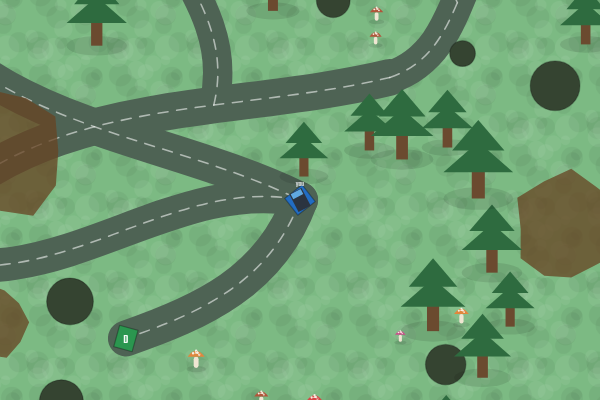
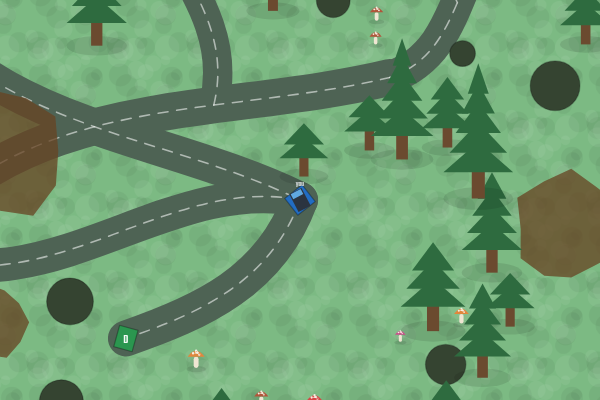
Give conifers 2-5 stacked tiers
The shared conifer (pine and snowpine) now draws a random 2-5 triangular tiers,
widest at the bottom tapering to the top, instead of a fixed two. Tiers rise
from a fixed trunk-connected base so taller trees grow upward. Snow caps are
drawn per tier so the snowy variant keeps a white peak on each layer. pine and
snowpine now receive the per-instance rng to pick their tier count.

diff --git a/src/game/props/shared.ts b/src/game/props/shared.ts
@@ -81,18 +81,31 @@ export function drawTreeBranch(
   }
 }
 
-/** Conifer body shared by the plain pine and the snow-dusted variant. */
-export function conifer(ctx: CanvasRenderingContext2D, snow: boolean): void {
+/** Conifer body shared by the plain pine and the snow-dusted variant: a stack
+ * of 2-5 triangular tiers, widest at the bottom and tapering to the top. When
+ * `snow` is set, each tier gets a small white cap at its peak. */
+export function conifer(ctx: CanvasRenderingContext2D, rng: Rng, snow: boolean): void {
   // Trunk starts above the foliage base (y = 3) so it connects, not floats.
   ctx.fillStyle = "#6b4a2f";
   ctx.fillRect(-1.5, 2, 3, 7);
+
+  const tiers = randInt(rng, 2, 5);
+  const maxHalf = 8; // bottom tier half-width
+  const widthStep = 1.4; // each tier up narrows by this much
+  const tierHeight = 7;
+  const apexSpacing = 4.5; // vertical rise between successive tier apexes
+  // The bottom tier's base sits at y = 3 (apex at 3 - tierHeight), so taller
+  // trees grow upward from a fixed, trunk-connected base.
+  const tierY = (i: number) => 3 - tierHeight - i * apexSpacing;
+  const tierHalf = (i: number) => maxHalf - i * widthStep;
+
+  // Green body first (largest tier at the bottom, up to the smallest on top)...
   ctx.fillStyle = snow ? "#2f6d43" : "#2e6b3f";
-  triangle(ctx, 0, -9, 6, 7);
-  triangle(ctx, 0, -4, 8, 7);
+  for (let i = 0; i < tiers; i++) triangle(ctx, 0, tierY(i), tierHalf(i), tierHeight);
+  // ...then the snow caps on top so they stay visible over the foliage.
   if (snow) {
     ctx.fillStyle = "#eef4f7";
-    triangle(ctx, 0, -9, 3.4, 3);
-    triangle(ctx, 0, -4, 4.5, 3);
+    for (let i = 0; i < tiers; i++) triangle(ctx, 0, tierY(i), tierHalf(i) * 0.56, 3);
   }
 }
 

diff --git a/src/game/props/snowpine.ts b/src/game/props/snowpine.ts
@@ -1,5 +1,6 @@
+import { type Rng } from "../../util/rng.js";
 import { conifer } from "./shared.js";
 
-export function drawSnowpine(ctx: CanvasRenderingContext2D): void {
-  conifer(ctx, true);
+export function drawSnowpine(ctx: CanvasRenderingContext2D, _variant: number, rng: Rng): void {
+  conifer(ctx, rng, true);
 }

diff --git a/src/game/props/pine.ts b/src/game/props/pine.ts
@@ -1,5 +1,6 @@
+import { type Rng } from "../../util/rng.js";
 import { conifer } from "./shared.js";
 
-export function drawPine(ctx: CanvasRenderingContext2D): void {
-  conifer(ctx, false);
+export function drawPine(ctx: CanvasRenderingContext2D, _variant: number, rng: Rng): void {
+  conifer(ctx, rng, false);
 }
